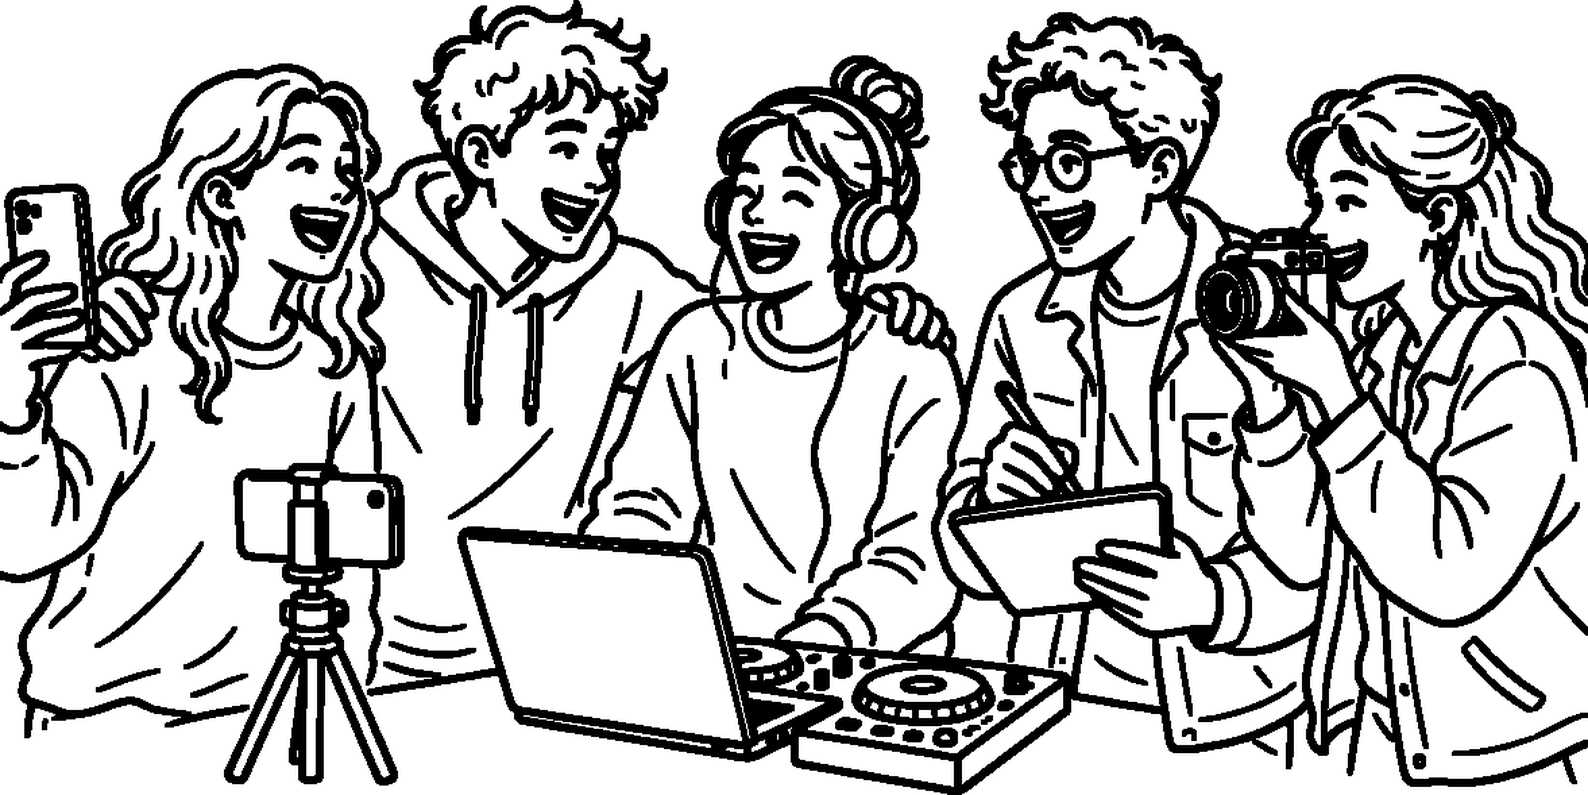
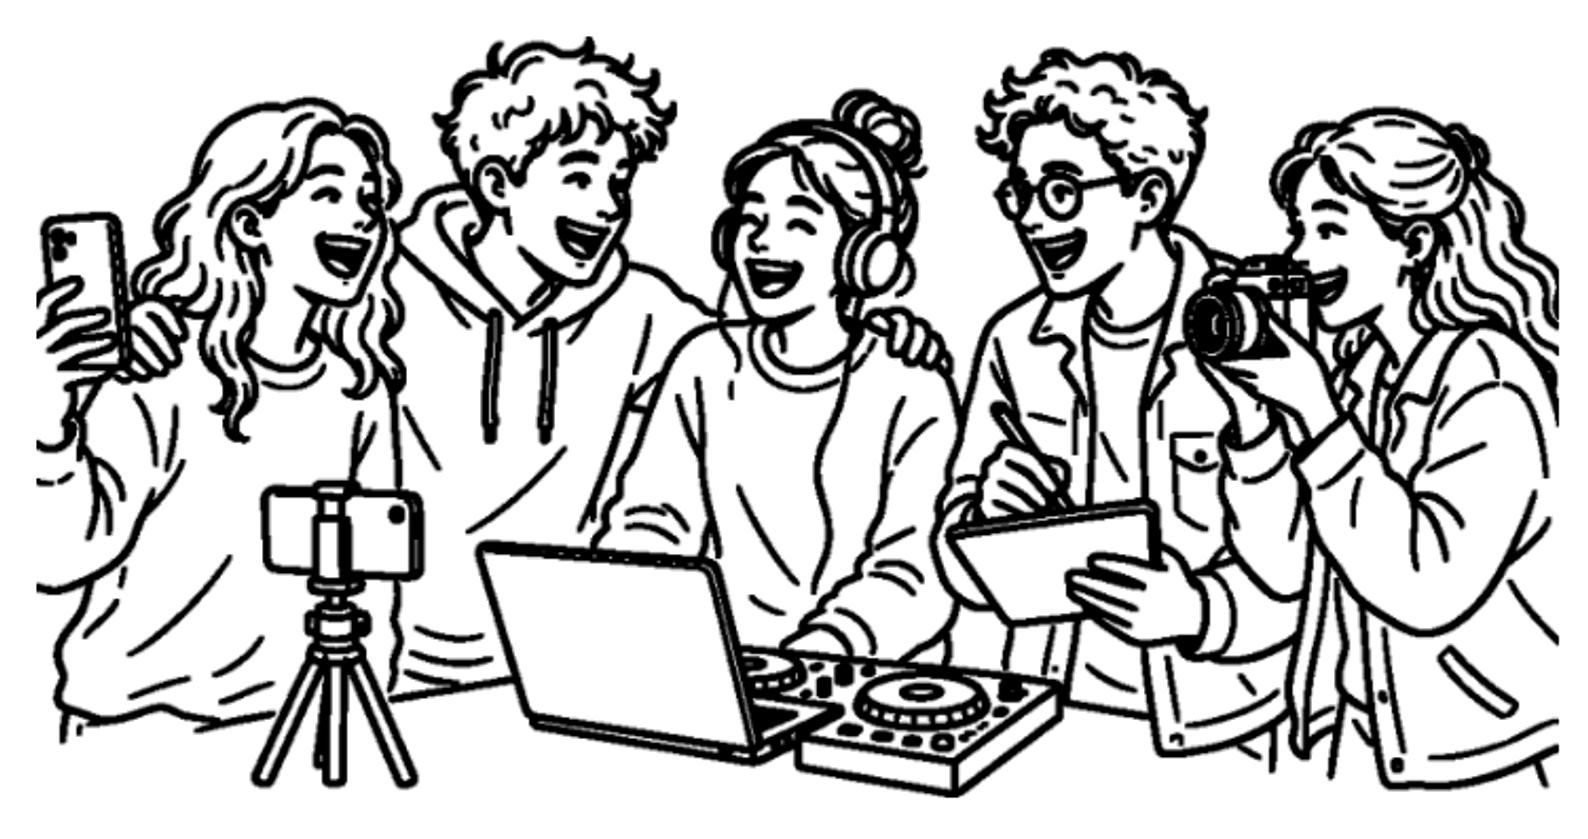
image on hero section updated

diff --git a/src/content/heroCharacters.ts b/src/content/heroCharacters.ts
@@ -3,7 +3,7 @@ export const heroCharacterGroup = {
   src: "/marketing/hero-characters-group.png",
   alt: "Creators filming, producing, designing, and shooting photos together",
   width: 1588,
-  height: 795,
+  height: 839,
 } as const;
 
 export const heroCharacters = [

diff --git a/src/app/globals.css b/src/app/globals.css
@@ -182,6 +182,7 @@ html[data-marketing-theme="light"],
     stroke: var(--m-footer-logo-stroke);
   }
   .hero-character-art {
+    background-color: transparent;
     filter: contrast(1.08);
   }
 }
